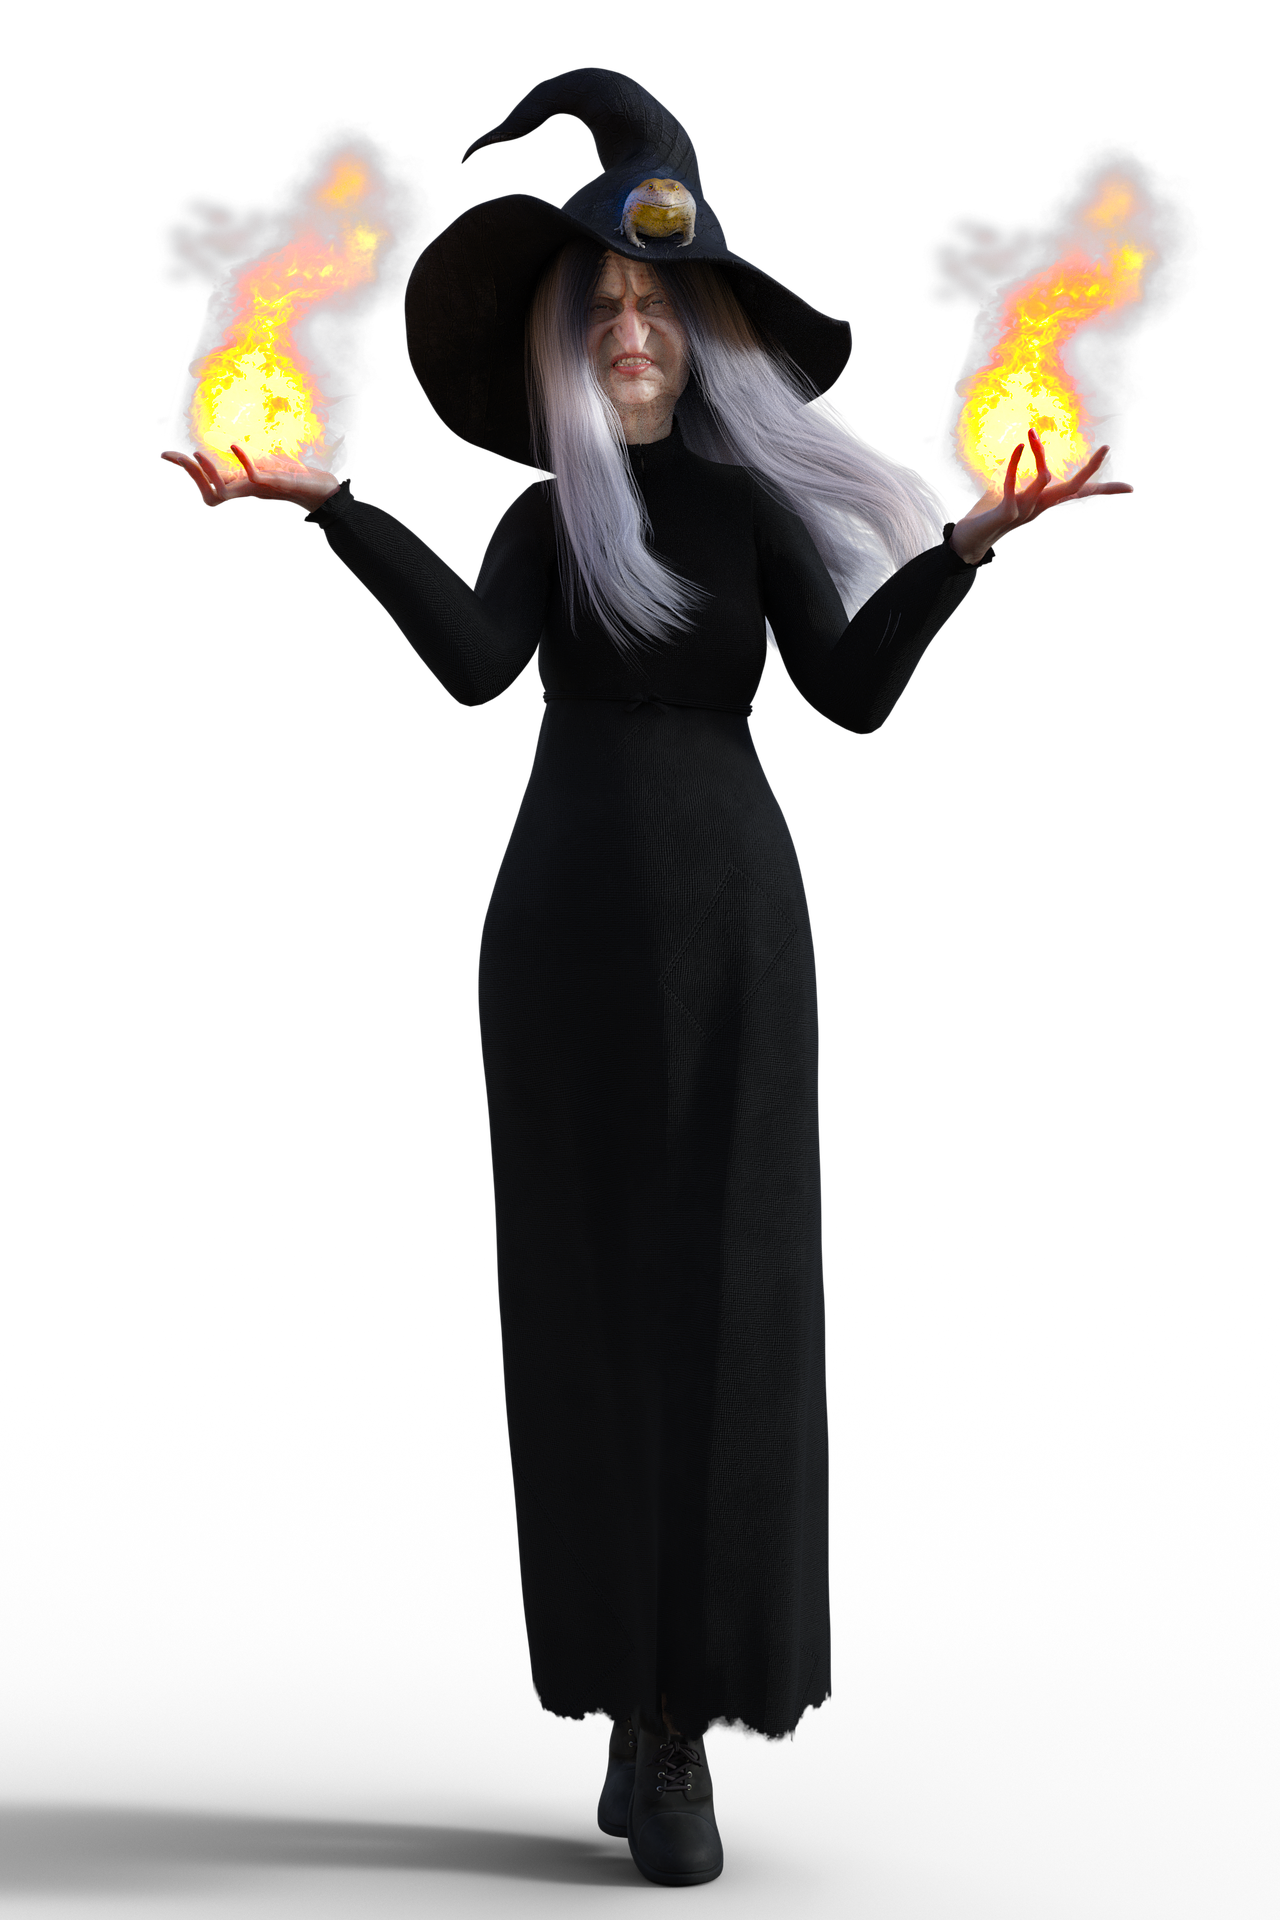
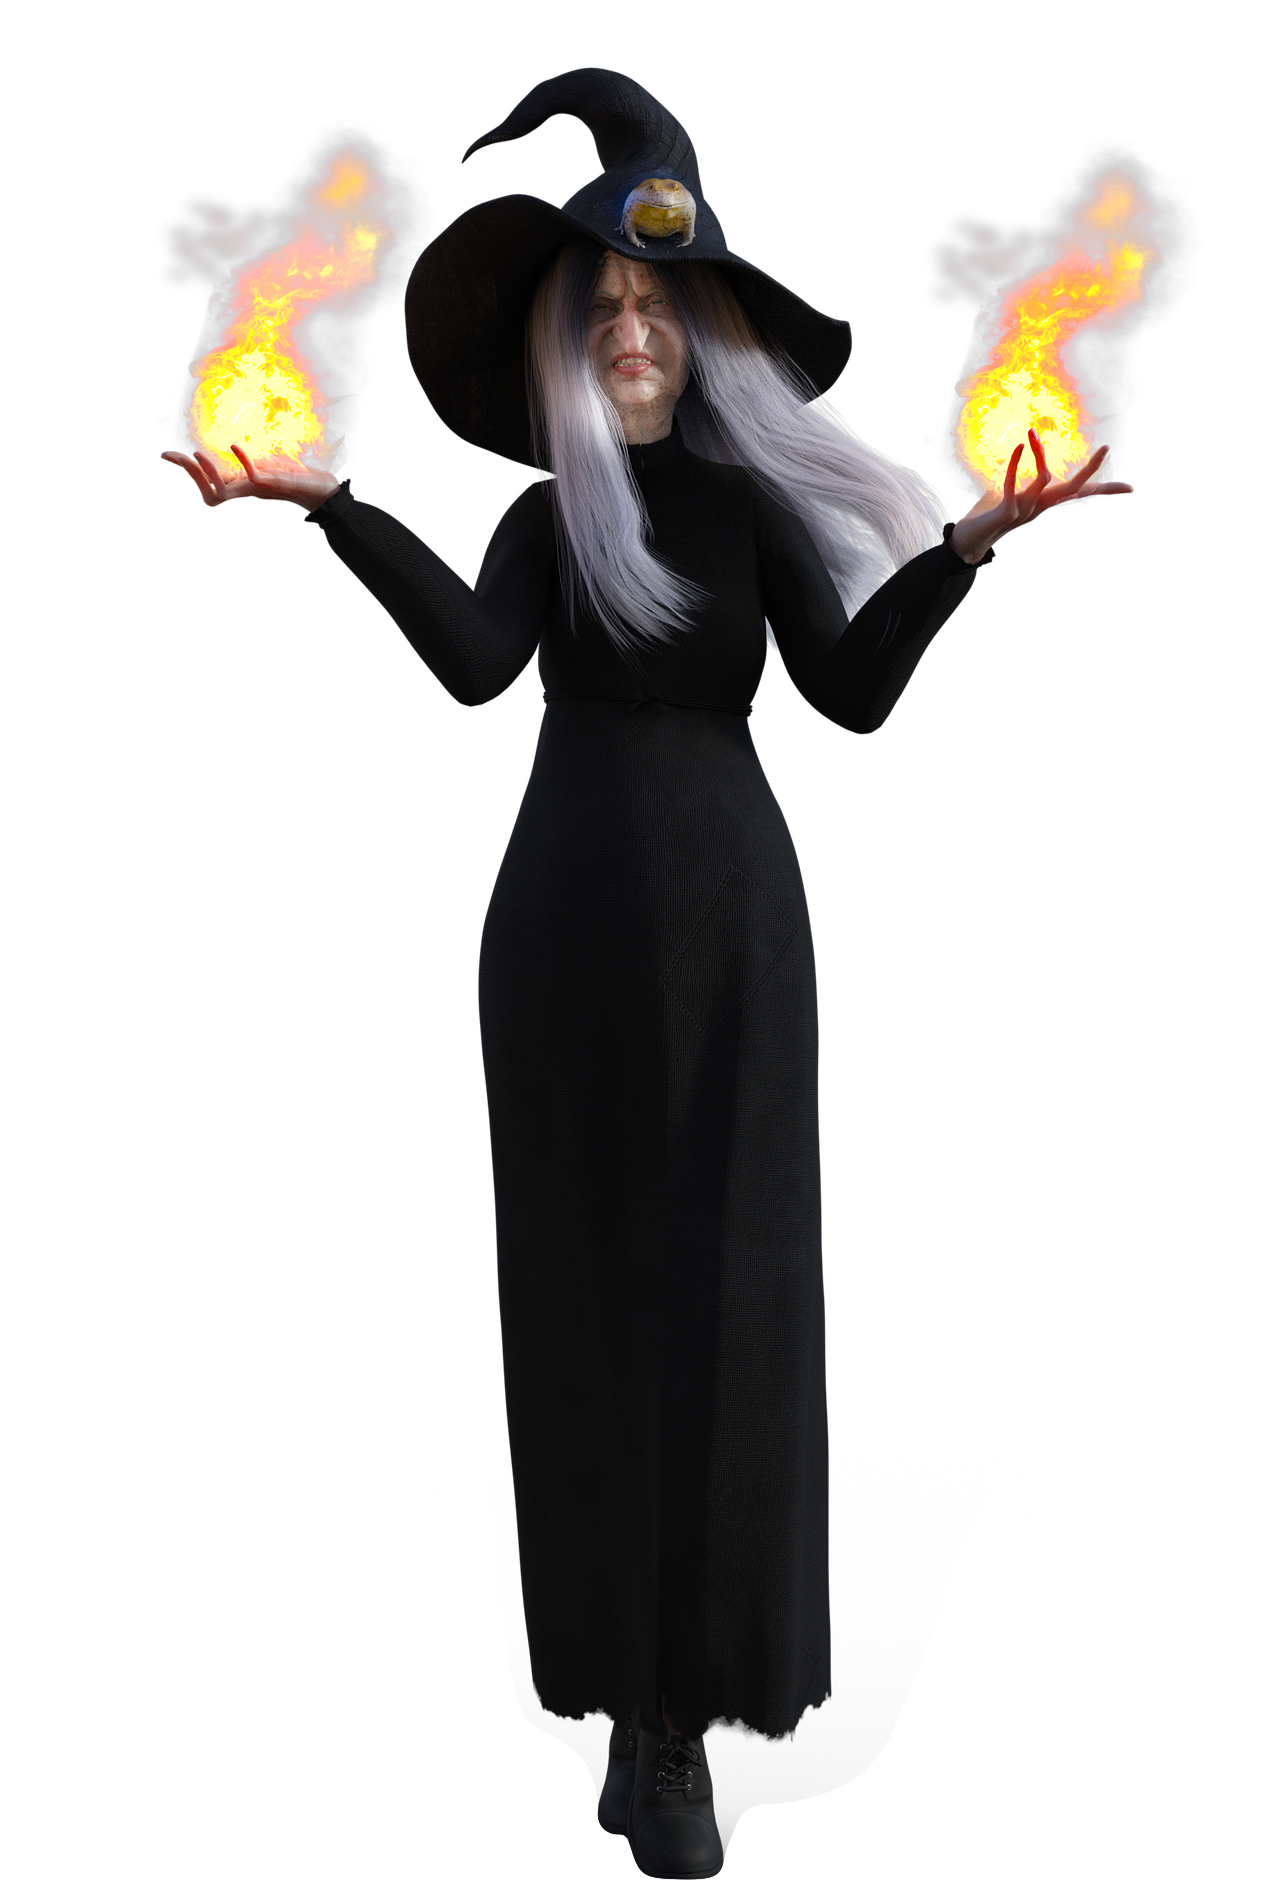
Fixed minor issue with user info page

diff --git a/codeplay-app/src/components/UserInfo/UserInfo.jsx b/codeplay-app/src/components/UserInfo/UserInfo.jsx
@@ -26,10 +26,10 @@ function UserInfo() {
   return (
     <div className = "userinfopage">
       <div className = "avatarholder">
-        <img src="troll.png" className="avatarimage"></img>
+        <img src="witch.png" className="avatarimage"></img>
         <button className="changeavatar">Change Avatar</button>
       </div>
-      <div className="userinfo">
+      <div className="userinfoholder">
         <div className="usernameinfoholder">
           <h2 className="label">Username</h2>
           <h2 className="info" align="left">Sanjee</h2>

diff --git a/codeplay-app/src/App.js b/codeplay-app/src/App.js
@@ -16,7 +16,7 @@ function App() {
       {viewController === "RESET_PAGE" && <ResetPassword />}
       {viewController === "USER_INFO_PAGE" && <UserInfo />}
   {viewController === "GAME_PAGE" && <Game />} */}
-      <Game />
+      <UserInfo />
     </div>
   );
 }

diff --git a/codeplay-app/src/components/UserInfo/UserInfo.css b/codeplay-app/src/components/UserInfo/UserInfo.css
@@ -38,7 +38,7 @@
     background-color: black;
 }
 
-.userinfo {
+.userinfoholder {
     display: grid;
     grid-template-rows: 120px 120px 120px 120px 90px;
 }
